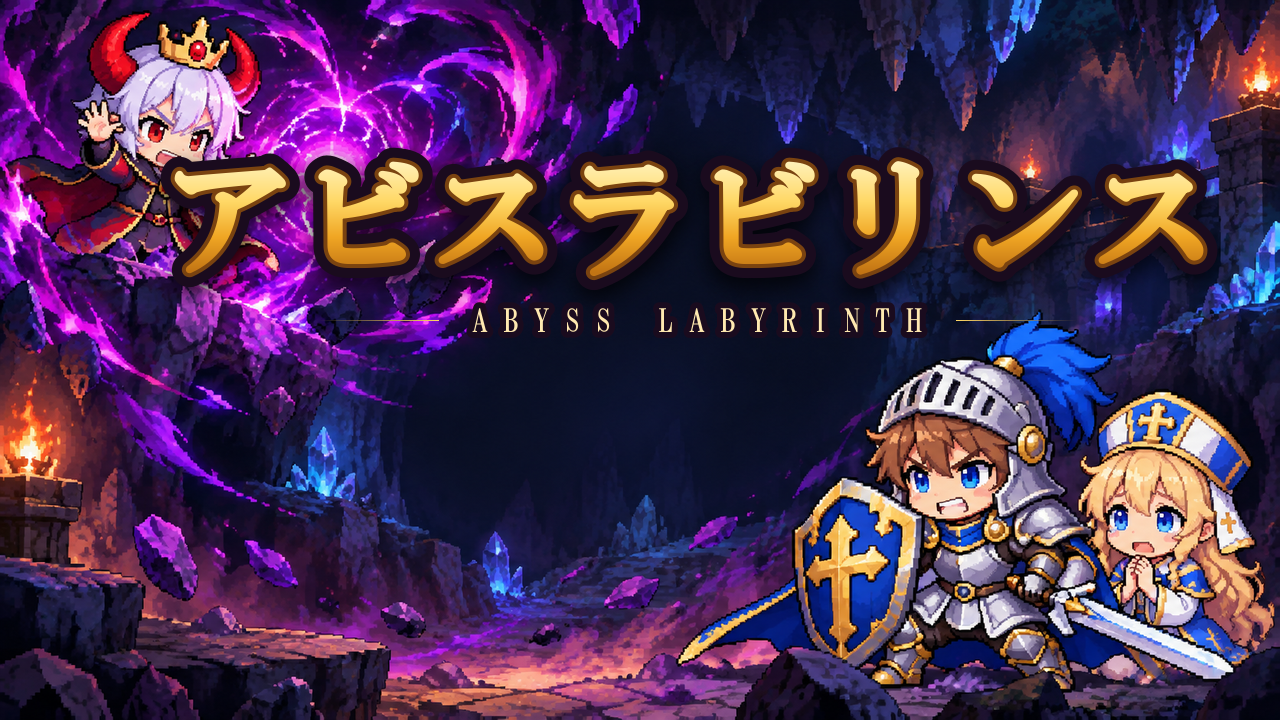
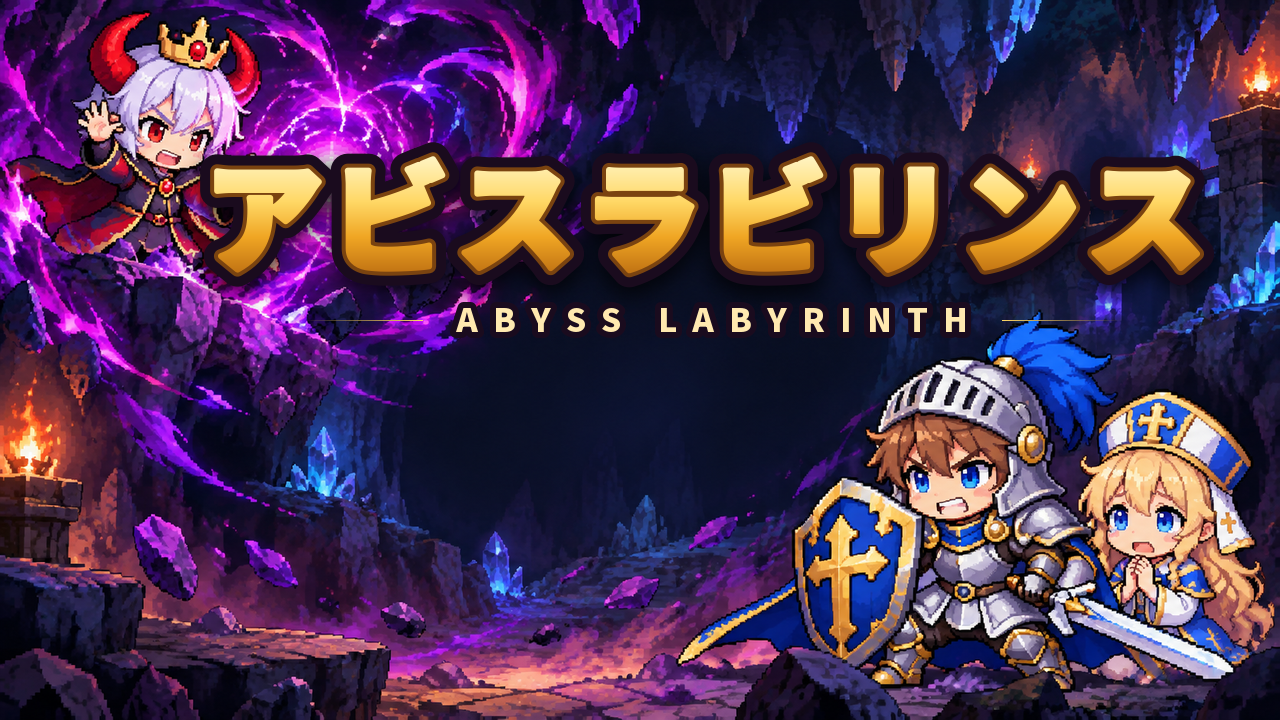
アビスラビリンス: INDEXカードの題名を他のゲームと同じ太いゴシック系の書体に／タイトルの「つづきから」に難易度を添えない

Changed region(s): [[0.125, 0.1833, 0.9688, 0.4889]]

diff --git a/ChimyakuDungeon/index.html b/ChimyakuDungeon/index.html
@@ -2594,7 +2594,7 @@ function renderTitleStoryStatus(){
     // 「はじめから」表記の控えめなボタンに格下げする（両方が同じ見た目だと紛らわしいため）
     const hasSave = hasStoryProgress();
     document.getElementById('btn-continue').classList.toggle('hidden', !hasSave);
-    document.getElementById('btn-continue').textContent = ui('btn_continue') + '（' + difficultyLabel() + '）';
+    document.getElementById('btn-continue').textContent = ui('btn_continue'); // 難易度は添えない（ボタン内で改行されてしまうため）
     document.getElementById('btn-game-start-label').textContent = ui(hasSave ? 'btn_start_over' : 'btn_game_start');
     document.getElementById('btn-game-start-btn').classList.toggle('btn-primary', !hasSave);
 }

diff --git a/index.html b/index.html
@@ -1734,7 +1734,7 @@
                 <span class="mini-tag" data-i18n="tag_gr4">4年生〜</span>
             </div>
             <a href="ChimyakuDungeon/index.html" class="media-container">
-                <img src="images/ChimyakuDungeon.png?v=20261227" alt="アビスラビリンス">
+                <img src="images/ChimyakuDungeon.png?v=20261228" alt="アビスラビリンス">
             </a>
             <div class="start-btn-area">
                 <a href="ChimyakuDungeon/index.html" class="play-btn">ゲームスタート ▶</a>
